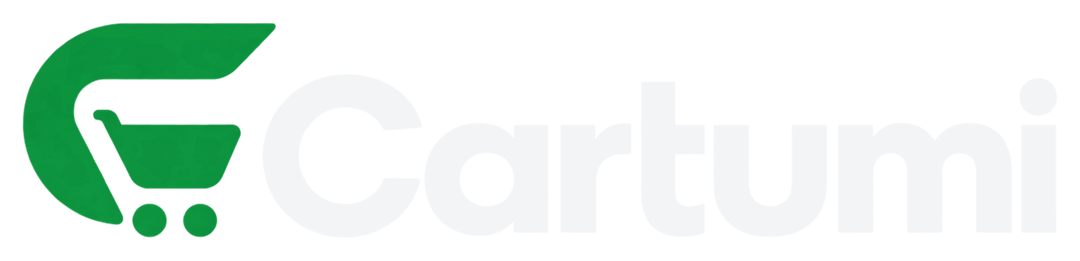
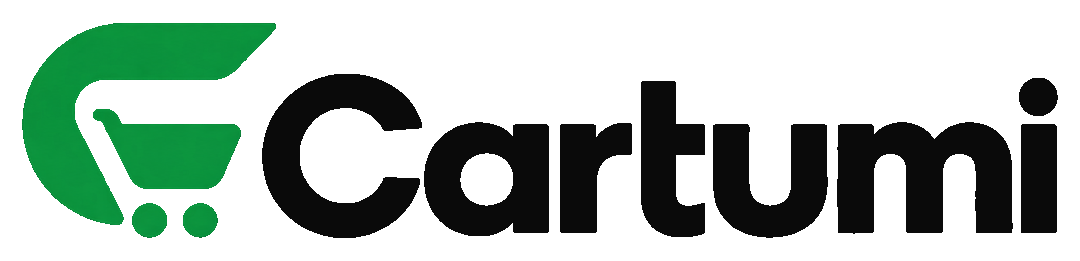
Show the full Cartumi mark and update the studio email.
The wordmark was white on a transparent image, so only the green icon showed on a white card. The contact address is now eltemurzentrastudio@gmail.com.

diff --git a/lib/site.ts b/lib/site.ts
@@ -48,7 +48,7 @@ export const contentUpdated = "2026-09-23";
 
 export const businessInfo = {
   name: "Eltemur Zentra Studio",
-  email: "eltemurzentra@gmail.com",
+  email: "eltemurzentrastudio@gmail.com",
   phoneDisplay: "+234 807 737 9147",
   phoneInternational: "+2348077379147",
   whatsappUrl:

diff --git a/README.md b/README.md
@@ -19,7 +19,7 @@ The form validates on the server. It does not send email until you set an endpoi
 2. Set `CONTACT_FORM_ENDPOINT` to an HTTPS URL that accepts a JSON POST.
 3. Restart the dev server.
 
-The posted JSON includes `to` (`eltemurzentra@gmail.com`), `name`, `email`, `company`, `projectType`, `budget`, `description`, and `source`. If `CONTACT_FORM_ENDPOINT` is empty, the form tells the visitor the message was not sent and points them to the email and WhatsApp links.
+The posted JSON includes `to` (`eltemurzentrastudio@gmail.com`), `name`, `email`, `company`, `projectType`, `budget`, `description`, and `source`. If `CONTACT_FORM_ENDPOINT` is empty, the form tells the visitor the message was not sent and points them to the email and WhatsApp links.
 
 `CONTACT_FORM_ENDPOINT` must use `https`. It is read only on the server.
 

diff --git a/ELTEMUR_COOLIFY_DEPLOYMENT.md b/ELTEMUR_COOLIFY_DEPLOYMENT.md
@@ -405,7 +405,7 @@ Enter variables with **+ Add**. Never put the values in Git, the Dockerfile, or 
 
 ```json
 {
-  "to": "eltemurzentra@gmail.com",
+  "to": "eltemurzentrastudio@gmail.com",
   "name": "string",
   "email": "string",
   "company": "string",
